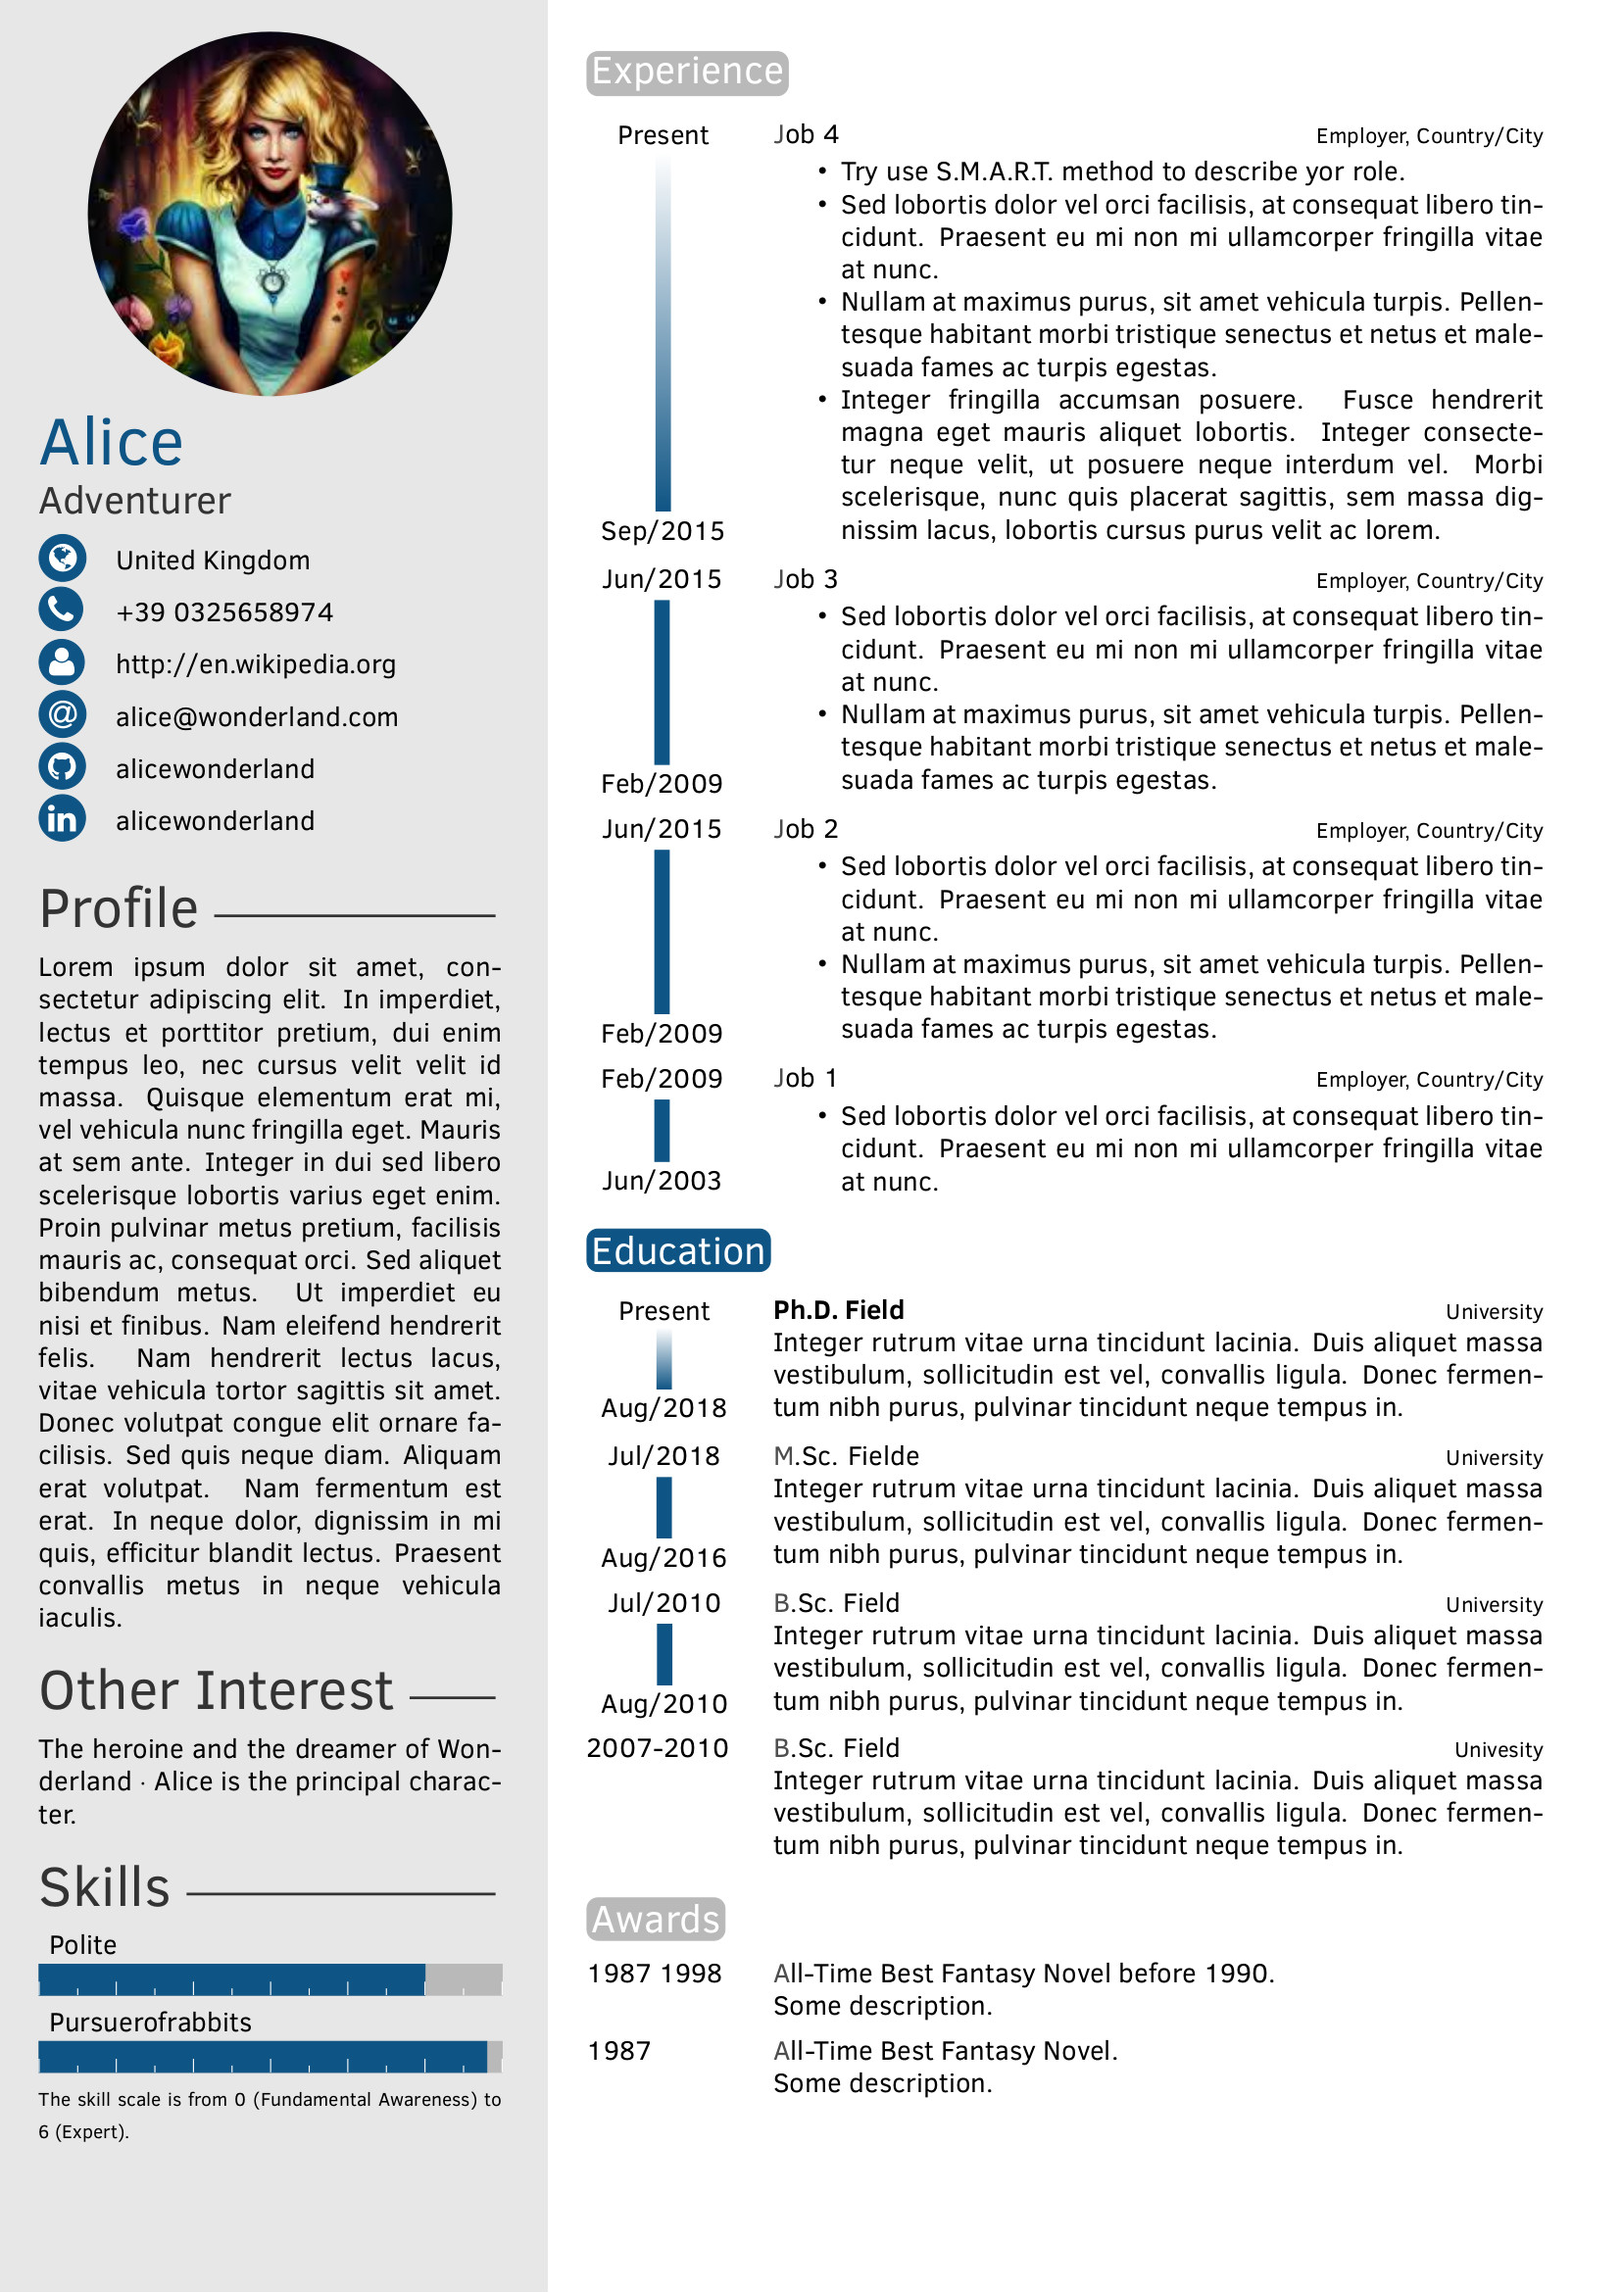
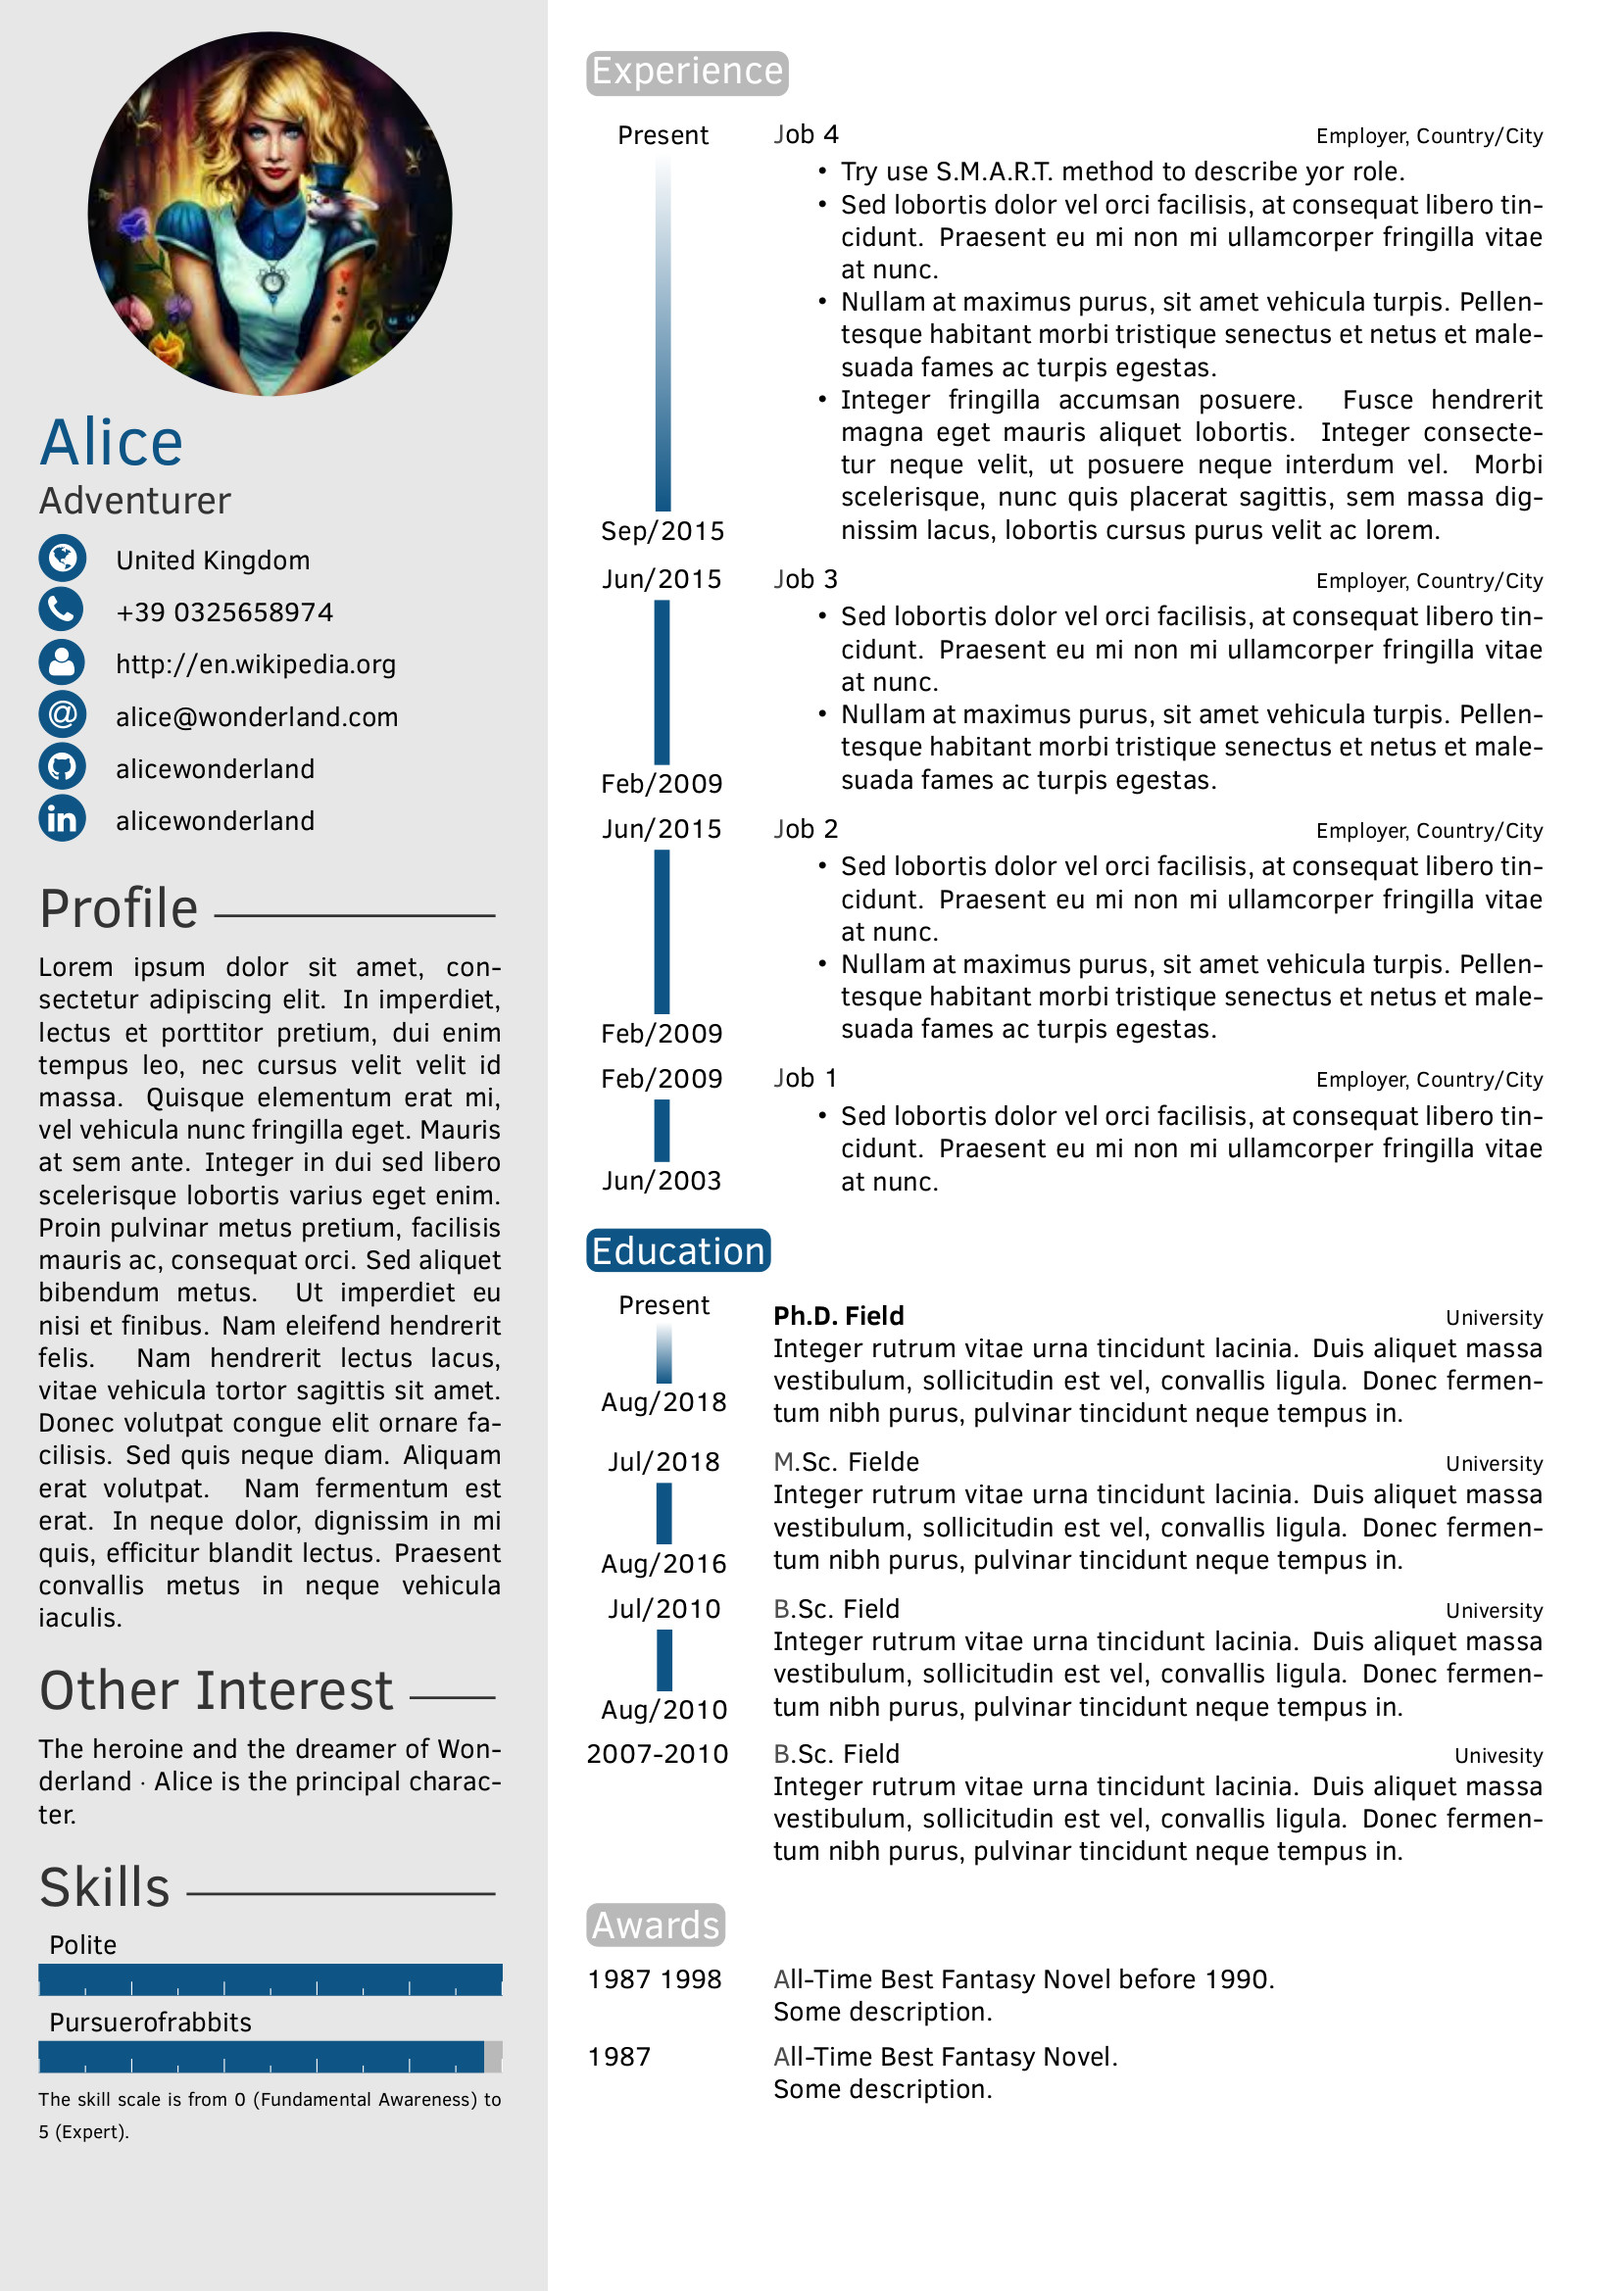
Change skills note range to [0,5]

diff --git a/Twenty-Seconds_cv.tex b/Twenty-Seconds_cv.tex
@@ -25,7 +25,7 @@
 
 % If you don't need one or more of the below, just remove the content leaving the command, e.g. \cvnumberphone{}
 
-\profilepic{me.jpeg} % Profile picture
+\profilepic{alice.jpeg} % Profile picture
 
 \cvname{Alice} % Your name
 \cvjobtitle{Adventurer} % Job title/career
@@ -65,7 +65,7 @@
 %----------------------------------------------------------------------------------------
 
 % Skill bar section, each skill must have a value between 0 an 6 (float)
-\skills{{Polite/5},{Pursuerofrabbits/5.8}}
+\skills{{Polite/5},{Pursuerofrabbits/4.8}}
 
 %------------------------------------------------
 
